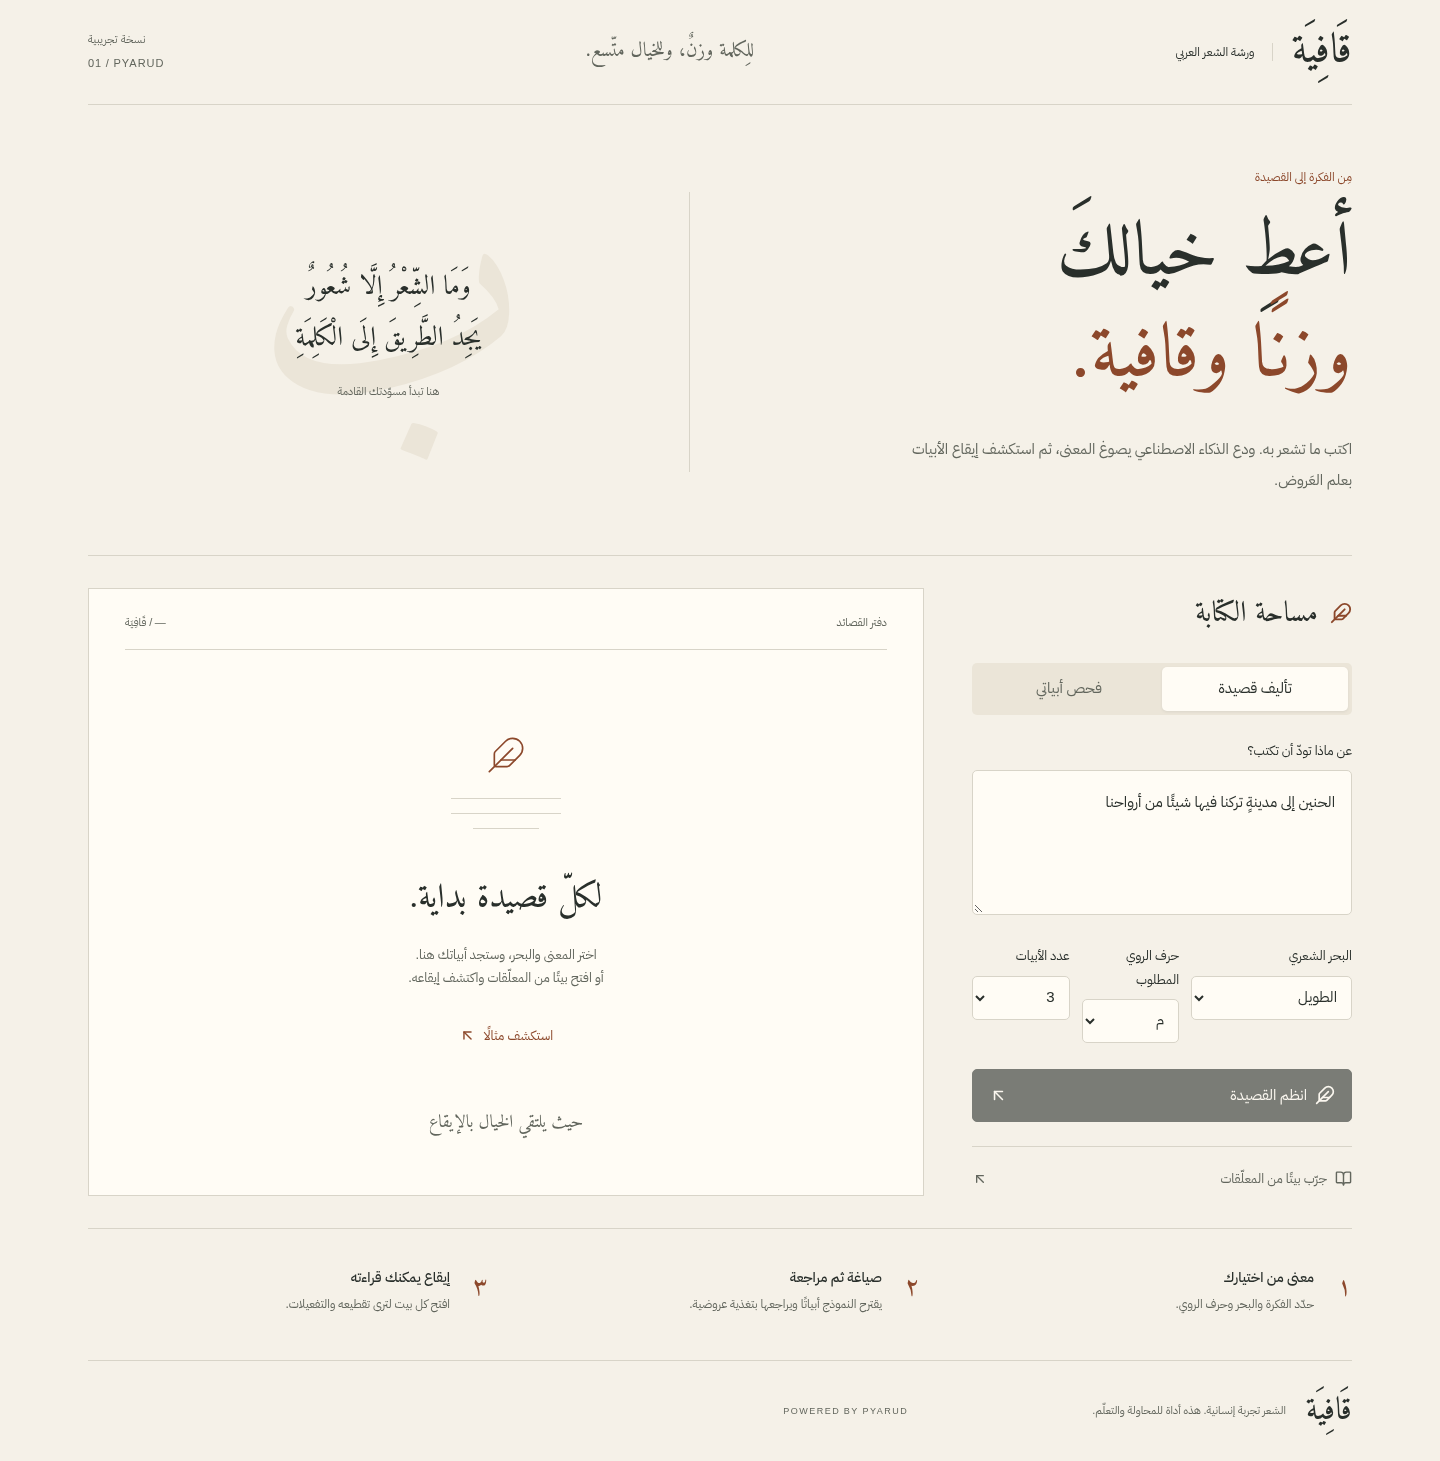
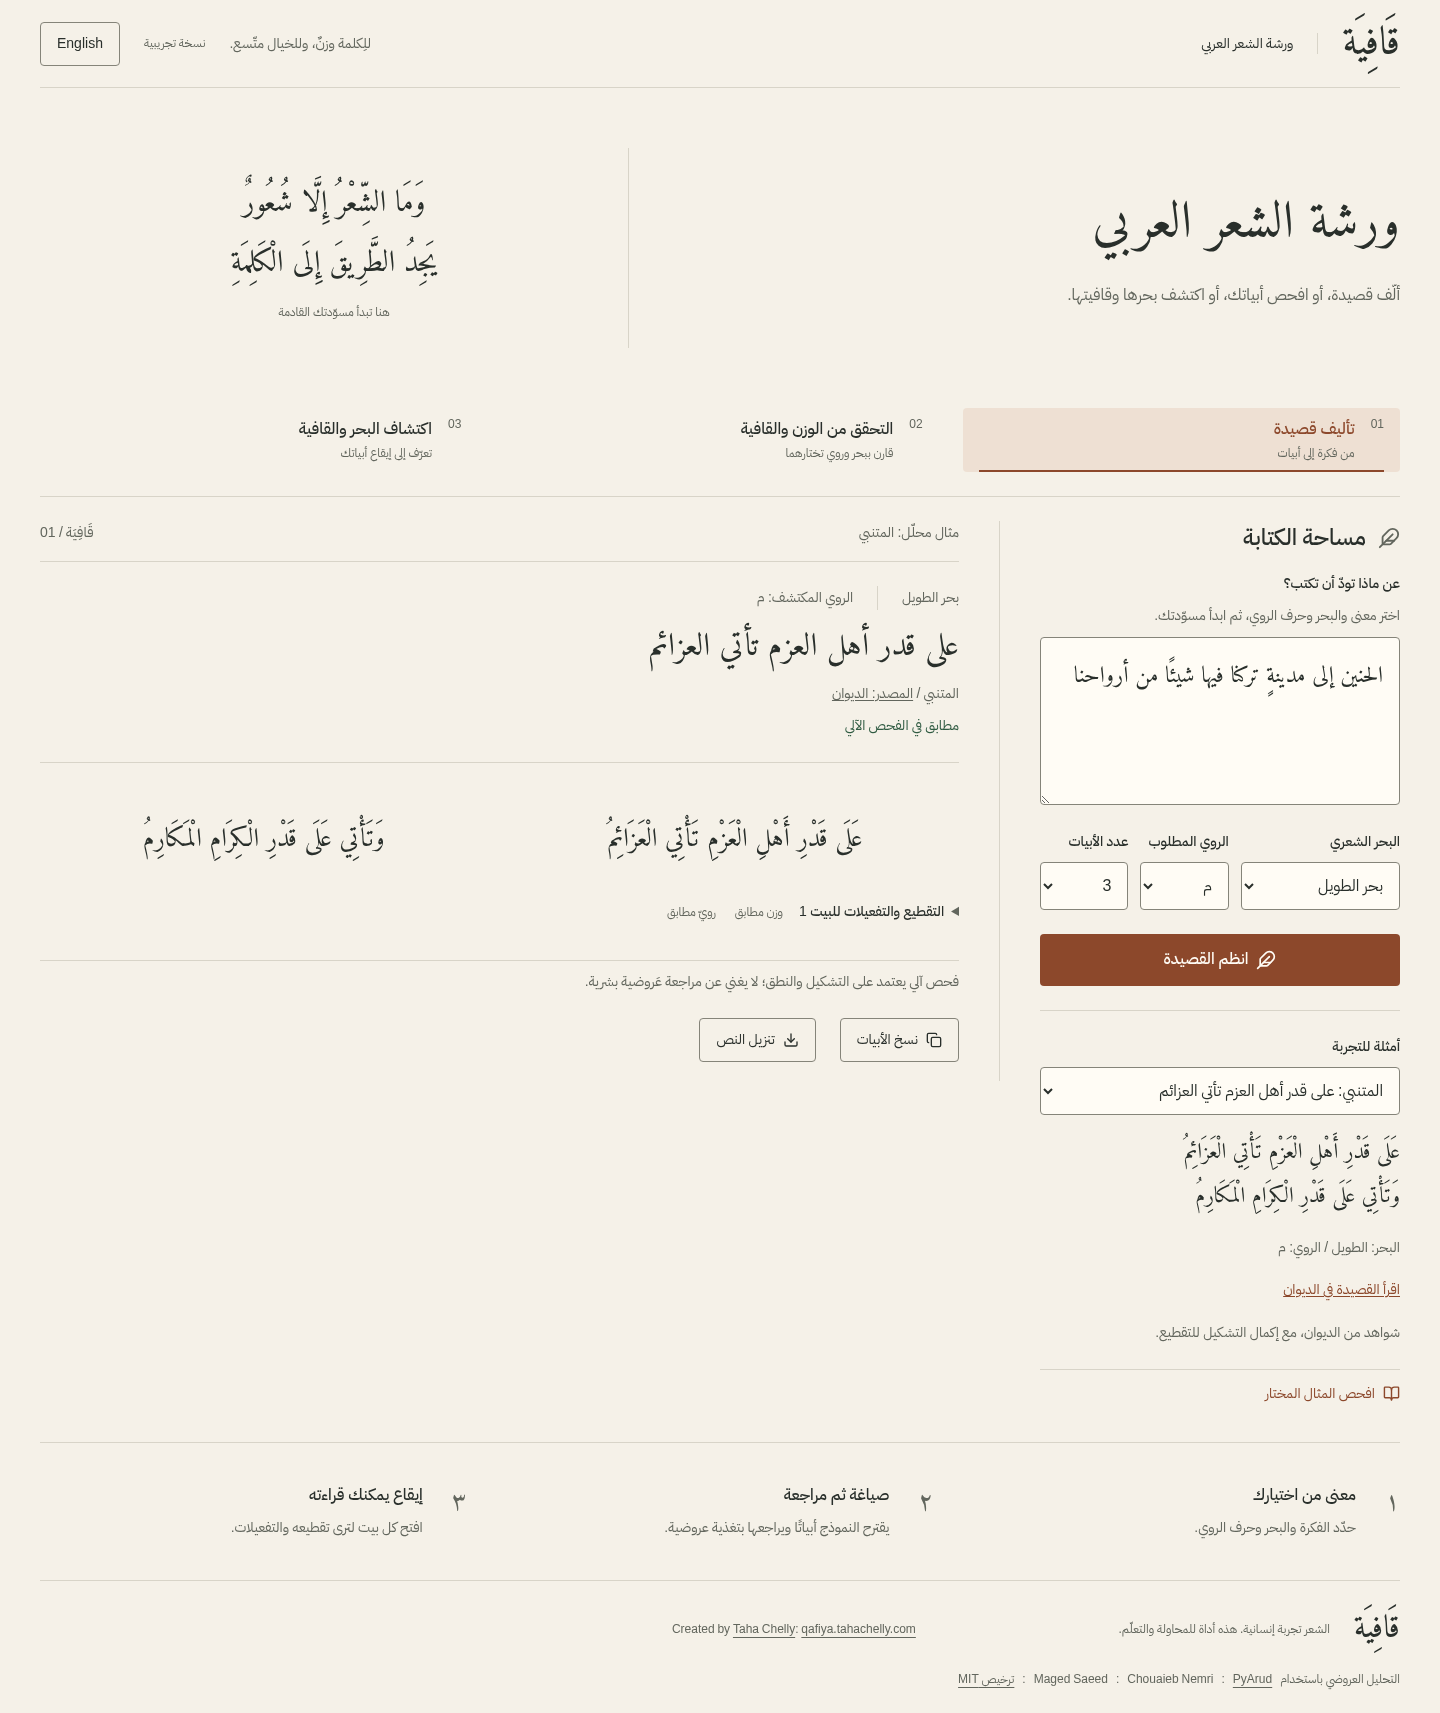
Refresh Qafiya documentation and workshop screenshots

diff --git a/README.md b/README.md
@@ -9,13 +9,15 @@ Created by **Taha Chelly** · [Live demo](https://qafiya.tahachelly.com/)
 [![CI](https://github.com/taha3313/arabic-poetry/actions/workflows/ci.yml/badge.svg)](https://github.com/taha3313/arabic-poetry/actions/workflows/ci.yml)
 
 Qafiya brings an Arabic-first, right-to-left writing desk together with classical
-prosody analysis. Paste a poem, choose its **بحر** (meter) and **روي** (rhyme
-letter), and inspect the scansion of each **صدر** and **عجز**. Optional local
-vocalization fills missing diacritics before analysis.
+prosody analysis. Compose a draft, check a poem against a chosen **بحر** (meter) and **روي**
+(rhyme letter), or detect its meter and rhyme without choosing a target. Review
+each **صدر** and **عجز** in an editable preview, then inspect its scansion.
+Optional local vocalization suggests missing diacritics before analysis.
 
-**The public demo currently offers analysis. AI generation is disabled on the
-hosted instance.** The repository also includes an experimental drafting and
-targeted-repair workflow that can be enabled locally with your own provider key.
+The public workshop offers **Compose, Check, and Detect** modes. As checked on
+2026-11-02, the live API reports generation enabled with Gemini. Drafting and
+targeted repair remain experimental and subject to provider quota and availability.
+Local development also supports OpenRouter and Groq with your own provider key.
 
 ## Screenshots
 
@@ -25,10 +27,17 @@ targeted-repair workflow that can be enabled locally with your own provider key.
 
 ### Verse analysis and scansion
 
-The sample from Imru’ al-Qais shows detected meter, rawi, binary scansion,
+The default al-Mutanabbī example shows meter, rawi, binary scansion,
 metrical feet, and the status of each hemistich.
 
 ![Qafiya analyzing a verse from Imru’ al-Qais with expanded metrical feet](docs/qafiya-live.png)
+
+### Review before analysis
+
+Edit either half-line and review suggested vowel marks before checking or detecting
+the meter.
+
+![Qafiya editable verse preview with separate sadr and ajuz fields](docs/qafiya-preview.png)
 
 <details>
 <summary>Mobile view · 390px</summary>
@@ -36,7 +45,7 @@ metrical feet, and the status of each hemistich.
 <img src="docs/qafiya-mobile.png" width="390" alt="Qafiya mobile layout showing the sample poem analysis" />
 </details>
 
-Screenshots show the deployed Qafiya interface. The sample poem is labelled as
+Screenshots refreshed on 2026-11-02 show the deployed Qafiya interface. The sample poem is labelled as
 an existing classical work, not AI-generated output.
 
 ## Interface languages
@@ -47,31 +56,44 @@ Use the **English / العربية** button to switch between Arabic and English
 
 - **Classical Arabic prosody:** choose among 16 meters and compare the detected
   rawi with the requested letter using [PyArud](https://github.com/cnemri/pyarud).
+- **Meter detection:** infer the meter and dominant rawi without supplying a
+  target, and inspect whether the verses share a consistent rhyme.
+- **Editable preview:** correct either half-line directly, review suggested
+  vowels, compare or restore the original text, and analyze exactly your reviewed
+  version. Delayed suggestions cannot overwrite newer edits.
 - **Readable scansion:** expand a verse to inspect its binary rhythm, feet,
-  accepted variations, and separate meter/rhyme results.
+  accepted variations, and separate meter/rhyme results. Pronounced letters align
+  with rhythm symbols only when the mapping is exact. PyArud’s prosodic spelling
+  stays verbatim, including shadda expansion and pronounced tanween.
 - **Optional automatic tashkeel:** a bundled approximately 4.8 MB libtashkeel
   ONNX model fills missing marks locally on the backend. Existing supplied
   vowels are preserved, and changes are disclosed. Analysis makes no LLM call.
 - **Experimental AI drafting:** select a theme, meter, rhyme letter, and 1–8
-  verses. Gemini is the default adapter; Groq and OpenRouter are optional.
+  verses. The local example configuration uses OpenRouter with a free Gemma model;
+  Gemini and Groq are also supported.
 - **Targeted revisions:** failed verses receive specific feedback; the backend
   preserves accepted verses and sound hemistichs rather than relying on the
   provider to keep them unchanged. Interrupted revisions retain the best draft.
 - **Arabic-first interface:** responsive RTL layout, keyboard focus states,
-  reduced-motion support, sample exploration, copy, and plain-text download.
+  reduced-motion support, attributed classical examples and Muʿallaqāt, copy,
+  and plain-text download. Arabic and English interface choices persist locally.
 
 ## How it works
 
 ### Analyze your verses
 
-1. Open **فحص أبياتي** and enter one verse per line, separating صدر and عجز
-   with `*`, or choose the labelled classical example.
-2. Select a meter and requested rawi. Leave automatic tashkeel enabled to fill
-   missing marks, or disable it to scan the original input.
-3. Inspect the result and expand each verse’s scansion. The manuscript displays
-   the actual analyzed text; the original input remains available.
+1. Choose **Check** to compare against a meter and rawi, or **Detect** to infer
+   them. Enter one verse per line with `*` between صدر and عجز, or load an
+   attributed classical example. The opening sample is by al-Mutanabbī.
+2. Edit the labeled half-line fields in the live preview. With automatic tashkeel
+   enabled, complete input receives vowel suggestions after 900 ms of idle typing.
+   Review or correct them, request suggestions explicitly, or restore the original.
+3. Run the check or detection. The interface submits the reviewed text with
+   `auto_tashkeel=false`, so analysis does not vocalize it a second time. Expand
+   the result for feet and pronounced-letter scansion. Editing the draft marks
+   the previous result as stale. If suggestions fail, manual analysis remains available.
 
-### Draft and revise locally
+### Draft and revise
 
 The generation adapter requests structured verse pairs, then PyArud checks each
 verse against the selected meter and rawi. Failed constraints feed a bounded
@@ -94,7 +116,7 @@ while fully unvocalized input reached only 2/12. See the
 | API | FastAPI, Pydantic, Python 3.12, uv |
 | Prosody | PyArud 1.0.0 |
 | Vocalization | libtashkeel model, CPU ONNX Runtime, NumPy |
-| Generation | Native Gemini adapter; optional Groq/OpenRouter |
+| Generation | OpenRouter free-model adapter; optional native Gemini/Groq |
 | Hosting | Cloudflare Pages frontend, Render free-plan Docker API in Frankfurt |
 | CI | Backend tests/Ruff, frontend build, constrained production-container checks |
 
@@ -150,31 +172,42 @@ Set these values in the ignored `backend/.env` file:
 
 ```dotenv
 GENERATION_ENABLED=true
-PROVIDER=gemini
-GEMINI_API_KEY=your-key
-GEMINI_API_KEY_2=second-key
-GEMINI_API_KEY_3=third-key
-GEMINI_MODEL=gemini-3.5-flash
-GEMINI_THINKING_LEVEL=medium
+PROVIDER=openrouter
+OPENROUTER_API_KEY=your-key
+OPENROUTER_MODEL=google/gemma-4-31b-it:free
 ```
 
 Keep keys on the backend. Model/key changes in the local dotenv file apply on
-the next request; startup settings such as CORS require a restart. Provider
-quota, availability, and billing remain account-specific. There is no automatic
-provider fallback. Gemini rotates through at most three distinct configured keys
-on quota rejection, remembers a working key, and cools exhausted keys until at
-least the provider retry hint (60 seconds by default; 24 hours for daily/zero quota).
-Keys in one project share quota; rotation does not multiply project limits.
-Optionally set `GEMINI_KEY_PROJECTS={"1":"project-a","2":"project-a","3":"project-b"}`
-to apply structured project quota cooldowns to sibling keys without probing them.
-Unknown project relationships receive only one bounded attempt per key. Provider prompts and draft poetry leave the
-backend only when generation is requested.
+the next request; startup settings such as CORS require a restart. The default
+OpenRouter model is a free Gemma 4 31B model; free-model availability and
+provider rate limits can change. If the selected OpenRouter model is rate-limited
+or returns no draft text, the backend makes one bounded retry through
+`openrouter/free`. Temporary upstream failures and truncated completions also
+use this single fallback. The named model uses reasoning effort `none`; the free
+router uses `low`, since it can select models that require reasoning and reject
+`none`. Both requests retain a 3,000-token total output budget. Low effort does
+not guarantee visible output: a reasoning model can still exhaust that budget.
+Strict JSON schemas close both draft and verse objects. This
+does not bypass account-wide provider limits, and there is no fallback to another
+provider. Provider prompts and draft poetry leave the backend only when generation
+is requested.
+
+Local OpenRouter checks on 2026-10-31 reproduced intermittent HTTP 400 rejections
+with the router's disabled-reasoning setting, alongside repeated 429 responses
+from the configured Gemma model. With low router reasoning effort, a subsequent
+request exhausted the output budget without draft text. Other bounded runs
+completed drafting and revision but failed meter/rhyme validation. Free routing
+therefore remains experimental, with no reliability or poetic-quality guarantee.
+Interrupted revisions keep the best validated draft and include a safe warning;
+provider error bodies and generated text are not logged by the adapter.
 
 For Groq, set `PROVIDER=groq`, `GROQ_API_KEY`, and optionally `GROQ_MODEL`
 (default `openai/gpt-oss-120b`). For OpenRouter, use `PROVIDER=openrouter`,
-`OPENROUTER_API_KEY`, and `OPENROUTER_MODEL=openrouter/free` or a named `:free`
-model. Adapter support does not imply equal poetic quality; read the
-[Gemini](docs/GEMINI.md) and [Groq](docs/GROQ.md) evaluation notes.
+`OPENROUTER_API_KEY`, and a named free model ending in `:free` (the default is
+`google/gemma-4-31b-it:free`). Gemini remains available with its native adapter,
+key rotation, and quota handling. Adapter support does not imply equal poetic
+quality; read the [Gemini](docs/GEMINI.md) and [Groq](docs/GROQ.md) evaluation
+notes.
 
 ## API
 
@@ -182,7 +215,9 @@ model. Adapter support does not imply equal poetic quality; read the
 | --- | --- | --- |
 | `GET` | `/health` | Process health |
 | `GET` | `/api/config` | Meters, provider/model names, generation availability |
-| `POST` | `/api/analyze` | Analyze supplied verses; optional local tashkeel |
+| `POST` | `/api/tashkeel` | Suggest missing vowel marks without meter analysis |
+| `POST` | `/api/analyze` | Check supplied verses against a meter and rawi |
+| `POST` | `/api/detect` | Infer meter, dominant rawi, and rhyme consistency |
 | `POST` | `/api/generate` | Generate and revise a draft when enabled |
 
 Interactive local API documentation: [localhost:8000/docs](http://localhost:8000/docs).
@@ -201,8 +236,10 @@ Interactive local API documentation: [localhost:8000/docs](http://localhost:8000
 }
 ```
 
-Inputs are bounded to eight verses, 240 serialized characters per hemistich,
-and 500 characters per generation topic. Provider attempts have 75-second
+Checking, detection, and vowel suggestions accept up to eight verses and
+240 characters per hemistich excluding vowel marks, with a 720-character
+serialized ceiling for vocalized text. Generated halves are limited to 240
+serialized characters; generation topics to 500 characters. Provider attempts have 75-second
 timeouts. Each key gets at most one quota attempt per completion; exhausted keys are skipped
 on subsequent requests during cooldown. Gemini 503/504 overload receives one
 short-delay retry unless Retry-After is present. Public generation permits one
@@ -215,7 +252,9 @@ responses include Retry-After.
 ```bash
 make test
 make build
-cd backend
+cd frontend
+npm test
+cd ../backend
 uv run ruff check .
 uv run ruff format --check .
 cd ..
@@ -223,8 +262,10 @@ docker build -t qafiya-api:local backend
 bash scripts/check-container.sh qafiya-api:local
 ```
 
-The deployment baseline has **73 passing backend tests**. GitHub CI runs the
-backend checks, a frontend production build, and the production Docker image
+The editable-preview release record reports **103 backend tests and seven
+frontend tests**; see the [responsive and accessibility review](docs/qa/preview-accessibility-responsive.md)
+for its scope and limitations. GitHub CI runs backend tests/Ruff, frontend tests
+and a production build, and the production Docker image
 under a 512 MiB cap without provider credentials or network access during the
 runtime workload. See [verification notes](docs/VERIFICATION.md) for browser
 checks, evidence, and remaining limits.
@@ -237,9 +278,12 @@ existing local env-file parser limitation.
 ## Deployment
 
 The public site runs at **[qafiya.tahachelly.com](https://qafiya.tahachelly.com)**.
-Its analysis flow, CPU vocalization, cross-origin requests, and HTTPS were checked
-after deployment. Generation stays disabled until public request controls are
-implemented and reviewed. CORS alone does not protect a shared provider key.
+Its analysis flow, CPU vocalization, cross-origin requests, and HTTPS have been
+checked after deployment. The live API reported `generation_available=true` on
+2026-11-02 with Gemini; this configuration check does not establish generation
+quality or remaining quota. Generation is serialized per process, with bounded
+revisions and provider cooldowns. These controls do not provide authentication
+or durable per-user quotas; CORS alone does not protect a shared provider key.
 
 For separate hosting, set `VITE_API_BASE_URL` to the HTTPS backend origin at
 frontend build time, and configure the backend’s `CORS_ORIGINS` as an exact-origin
@@ -256,6 +300,9 @@ build settings, release steps, and the default TCP health-check limitation.
 - [Gemini integration and live sample evidence](docs/GEMINI.md)
 - [Groq comparison and unresolved generation quality](docs/GROQ.md)
 - [UI design decisions](docs/DESIGN.md)
+- [Editable preview and suggestion behavior](docs/editable-poetry-preview.md)
+- [Responsive, accessibility, and preview QA](docs/qa/preview-accessibility-responsive.md)
+- [Attributed poetry examples](docs/poetry-examples.md)
 - [Verification record](docs/VERIFICATION.md)
 - [Deployment operations](docs/DEPLOYMENT.md)
 
